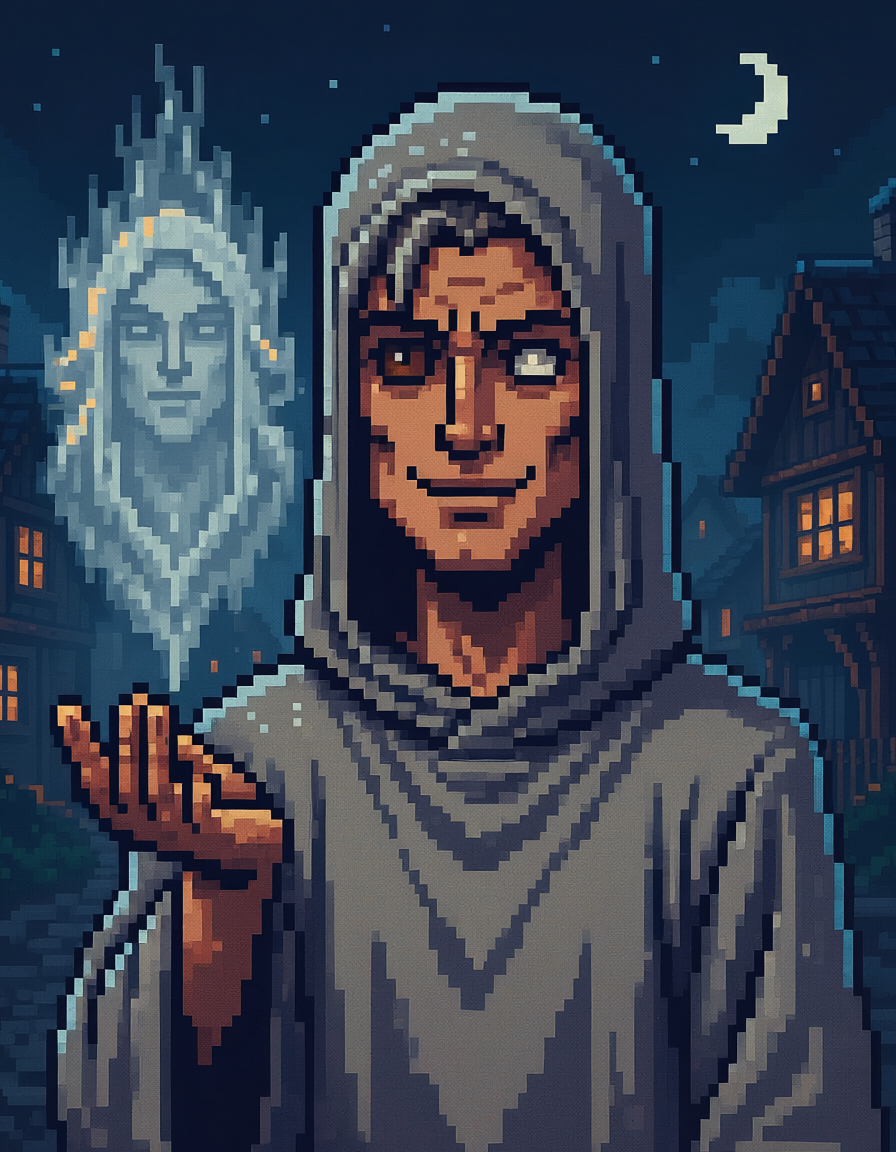
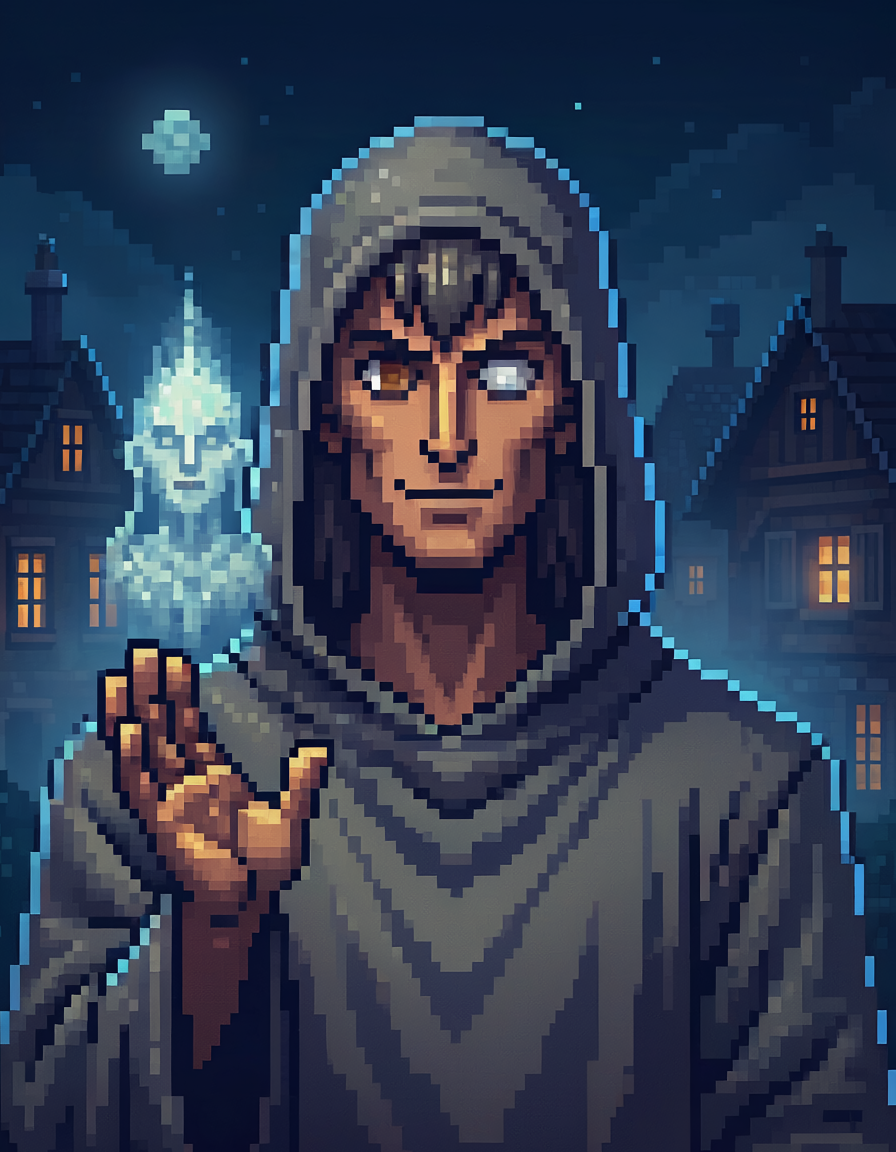
witch end-game logs fix

diff --git a/convex/games.ts b/convex/games.ts
@@ -908,6 +908,22 @@ export const endGameView = query({
       }
       s.add(id);
     };
+    // Witches always submit a `witch_done` row to close their turn, even on
+    // nights they also saved or poisoned. We want the history list to show
+    // "Passed" only on truly idle nights, so track which (witch, night) pairs
+    // had an active save/poison and suppress the redundant done row below.
+    const witchActed = new Set<string>();
+    const witchActedKey = (actorId: Id<'players'>, night: number) =>
+      `${actorId}:${night}`;
+    for (const a of actions) {
+      if (
+        (a.actionType === 'witch_save' || a.actionType === 'witch_poison') &&
+        a.actorPlayerId
+      ) {
+        witchActed.add(witchActedKey(a.actorPlayerId, a.nightNumber));
+      }
+    }
+
     for (const a of actions) {
       if (a.actionType === 'wolf_kill') {
         const eff = wolfKillEffectiveTarget.get(a._id) ?? a.targetPlayerId;
@@ -938,6 +954,16 @@ export const endGameView = query({
       // row would just clutter the per-night history list.
       if (a.actionType === 'cursed_conversion') continue;
       if (a.actionType === 'cursed_conversion_ack') continue;
+      // A witch_done row alongside a same-night witch_save / witch_poison is
+      // just the turn-closer — collapse it so the night shows only the action
+      // taken, not action + Passed.
+      if (
+        a.actionType === 'witch_done' &&
+        a.actorPlayerId &&
+        witchActed.has(witchActedKey(a.actorPlayerId, a.nightNumber))
+      ) {
+        continue;
+      }
       const result = (a.result ?? {}) as {
         team?: string;
         firstId?: Id<'players'>;